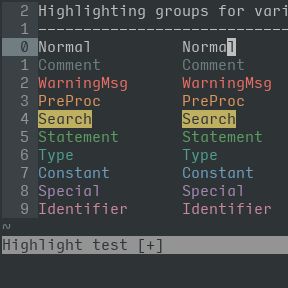
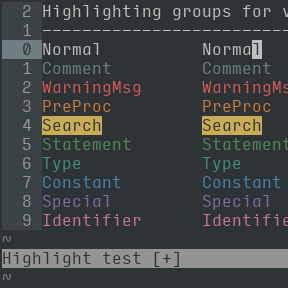
overhaul

Changed region(s): [[0.0, 0.0, 1.0, 0.7812], [0.0, 0.7812, 1.0, 0.9688]]

diff --git a/README.md b/README.md
@@ -76,14 +76,8 @@ let g:vrunchbang_light_LineNr = 'off'
 
 <blockquote>
   <ul>
-    <li>accent colour hues were selected at the scale of 1/12 (30°) colour wheel intervals, followed by 1/6 subinterval adjustments</li>
-    <li>base colour hue was selected from among:
-      <ul>
-        <li>the 24 hues available at the scale of 1/24 (15°) colour wheel intervals</li>
-        <li>the additional fine-tuned accent hues</li>
-      </ul>
-    </li>
-    <li>discrete intervals were also used for tuning colour saturations (1/24) and values (1/12)</li>
+    <li><strong>hues</strong> were selected at the scale of 1/48 (7.5°) colour wheel intervals</li>
+    <li><strong>saturations</strong> and <strong>values</strong> were adjusted at the scale of 1/12 and 1/24, respectively</li>
     <li>the <a href="https://www.w3.org/TR/UNDERSTANDING-WCAG20/visual-audio-contrast-contrast.html#visual-audio-contrast-contrast-73-head">ISO 3:1 contrast standard</a> is met by nearly all text/background combinations, exceptions being made for some transient-highlighted backgrounds (e.g. cursorcolumn, cursorline)</li>
   </ul>
 </blockquote>
@@ -99,67 +93,67 @@ let g:vrunchbang_light_LineNr = 'off'
   <tbody>
     <tr>
       <td style="text-align: right"><img src="http://www.colorhexa.com/2e3436.png" height="24" width="42" /> <code class="highlighter-rouge">2e3436</code> </td>
-      <td style="text-align: center"><img src="http://www.colorhexa.com/eb493a.png" height="24" width="42" /> <code class="highlighter-rouge">eb493a</code> </td>
-      <td style="text-align: left"><img src="http://www.colorhexa.com/eb6e63.png" height="24" width="42" /> <code class="highlighter-rouge">eb6e63</code></td>
+      <td style="text-align: center"><img src="http://www.colorhexa.com/e04a4a.png" height="24" width="42" /> <code class="highlighter-rouge">e04a4a</code> </td>
+      <td style="text-align: left"><img src="http://www.colorhexa.com/bf6060.png" height="24" width="42" /> <code class="highlighter-rouge">bf6060</code></td>
     </tr>
     <tr>
       <td style="text-align: right"><img src="http://www.colorhexa.com/3b4245.png" height="24" width="42" /> <code class="highlighter-rouge">3b4245</code> </td>
-      <td style="text-align: center"><img src="http://www.colorhexa.com/e07426.png" height="24" width="42" /> <code class="highlighter-rouge">e07426</code> </td>
-      <td style="text-align: left"><img src="http://www.colorhexa.com/e0945e.png" height="24" width="42" /> <code class="highlighter-rouge">e0945e</code></td>
+      <td style="text-align: center"><img src="http://www.colorhexa.com/e07538.png" height="24" width="42" /> <code class="highlighter-rouge">e07538</code> </td>
+      <td style="text-align: left"><img src="http://www.colorhexa.com/b5734c.png" height="24" width="42" /> <code class="highlighter-rouge">b5734c</code></td>
     </tr>
     <tr>
       <td style="text-align: right"><img src="http://www.colorhexa.com/485154.png" height="24" width="42" /> <code class="highlighter-rouge">485154</code> </td>
-      <td style="text-align: center"><img src="http://www.colorhexa.com/d4b935.png" height="24" width="42" /> <code class="highlighter-rouge">d4b935</code> </td>
-      <td style="text-align: left"><img src="http://www.colorhexa.com/bfaf60.png" height="24" width="42" /> <code class="highlighter-rouge">bfaf60</code></td>
+      <td style="text-align: center"><img src="http://www.colorhexa.com/d4ac35.png" height="24" width="42" /> <code class="highlighter-rouge">d4ac35</code> </td>
+      <td style="text-align: left"><img src="http://www.colorhexa.com/ab9248.png" height="24" width="42" /> <code class="highlighter-rouge">ab9248</code></td>
     </tr>
     <tr>
       <td style="text-align: right"><img src="http://www.colorhexa.com/707e82.png" height="24" width="42" /> <code class="highlighter-rouge">707e82</code> </td>
-      <td style="text-align: center"><img src="http://www.colorhexa.com/349e3d.png" height="24" width="42" /> <code class="highlighter-rouge">349e3d</code> </td>
-      <td style="text-align: left"><img src="http://www.colorhexa.com/5c9e61.png" height="24" width="42" /> <code class="highlighter-rouge">5c9e61</code></td>
+      <td style="text-align: center"><img src="http://www.colorhexa.com/349e42.png" height="24" width="42" /> <code class="highlighter-rouge">349e42</code> </td>
+      <td style="text-align: left"><img src="http://www.colorhexa.com/508a58.png" height="24" width="42" /> <code class="highlighter-rouge">508a58</code></td>
     </tr>
     <tr>
       <td style="text-align: right"><img src="http://www.colorhexa.com/949494.png" height="24" width="42" /> <code class="highlighter-rouge">949494</code> </td>
-      <td style="text-align: center"><img src="http://www.colorhexa.com/289e8b.png" height="24" width="42" /> <code class="highlighter-rouge">289e8b</code> </td>
-      <td style="text-align: left"><img src="http://www.colorhexa.com/4f9e91.png" height="24" width="42" /> <code class="highlighter-rouge">4f9e91</code></td>
+      <td style="text-align: center"><img src="http://www.colorhexa.com/289e8e.png" height="24" width="42" /> <code class="highlighter-rouge">289e8e</code> </td>
+      <td style="text-align: left"><img src="http://www.colorhexa.com/458a81.png" height="24" width="42" /> <code class="highlighter-rouge">458a81</code></td>
     </tr>
     <tr>
       <td style="text-align: right"><img src="http://www.colorhexa.com/bfbfbf.png" height="24" width="42" /> <code class="highlighter-rouge">bfbfbf</code> </td>
-      <td style="text-align: center"><img src="http://www.colorhexa.com/3f8abf.png" height="24" width="42" /> <code class="highlighter-rouge">3f8abf</code> </td>
-      <td style="text-align: left"><img src="http://www.colorhexa.com/6f9ebf.png" height="24" width="42" /> <code class="highlighter-rouge">6f9ebf</code></td>
+      <td style="text-align: center"><img src="http://www.colorhexa.com/3f90bf.png" height="24" width="42" /> <code class="highlighter-rouge">3f90bf</code> </td>
+      <td style="text-align: left"><img src="http://www.colorhexa.com/5c869e.png" height="24" width="42" /> <code class="highlighter-rouge">5c869e</code></td>
     </tr>
     <tr>
       <td style="text-align: right"><img src="http://www.colorhexa.com/e0e0e0.png" height="24" width="42" /> <code class="highlighter-rouge">e0e0e0</code> </td>
-      <td style="text-align: center"><img src="http://www.colorhexa.com/9c69b5.png" height="24" width="42" /> <code class="highlighter-rouge">9c69b5</code> </td>
-      <td style="text-align: left"><img src="http://www.colorhexa.com/a688b5.png" height="24" width="42" /> <code class="highlighter-rouge">a688b5</code></td>
+      <td style="text-align: center"><img src="http://www.colorhexa.com/9969b5.png" height="24" width="42" /> <code class="highlighter-rouge">9969b5</code> </td>
+      <td style="text-align: left"><img src="http://www.colorhexa.com/876f94.png" height="24" width="42" /> <code class="highlighter-rouge">876f94</code></td>
     </tr>
     <tr>
       <td style="text-align: right"><img src="http://www.colorhexa.com/ffffff.png" height="24" width="42" /> <code class="highlighter-rouge">ffffff</code> </td>
-      <td style="text-align: center"><img src="http://www.colorhexa.com/c96587.png" height="24" width="42" /> <code class="highlighter-rouge">c96587</code> </td>
-      <td style="text-align: left"><img src="http://www.colorhexa.com/c9879d.png" height="24" width="42" /> <code class="highlighter-rouge">c9879d</code></td>
+      <td style="text-align: center"><img src="http://www.colorhexa.com/d46a85.png" height="24" width="42" /> <code class="highlighter-rouge">d46a85</code> </td>
+      <td style="text-align: left"><img src="http://www.colorhexa.com/b5697c.png" height="24" width="42" /> <code class="highlighter-rouge">b5697c</code></td>
     </tr>
   </tbody>
 </table>
 
-<p><img src="http://www.colorhexa.com/eb493a.png" height="24" width="42" />
+<p><img src="http://www.colorhexa.com/e04a4a.png" height="24" width="42" />
 <strong>Red</strong>, the colour of alarm, is used for <strong>warning elements</strong>, including error messages, misspellings, and diff deletions.</p>
 
-<p><img src="http://www.colorhexa.com/e07426.png" height="24" width="42" />
+<p><img src="http://www.colorhexa.com/e07538.png" height="24" width="42" />
 <strong>Orange</strong>, the colour of fire, can be associated with the preliminary “warmup” phase of some activity; literally, this could be the heating-up of a hearth for forging, or a stove for cooking. Orange is therefore used for <strong>preliminary elements</strong>, such as preprocessor commands (which prepare data to be handled by another program), incremental searching (that is, a search term in the process of being typed), titles, and miscapitalized words.</p>
 
-<p><img src="http://www.colorhexa.com/d4b935.png" height="24" width="42" />
+<p><img src="http://www.colorhexa.com/d4ac35.png" height="24" width="42" />
 <strong>Yellow</strong>, the classic highlighting colour, is applied to elements that are not warnings, yet should draw attention with high visibility. These <strong>highlighted elements</strong> include search results, task tags (<code class="highlighter-rouge">TODO</code>, <code class="highlighter-rouge">FIXME</code>…), and diff changes.</p>
 
-<p><img src="http://www.colorhexa.com/349e3d.png" height="24" width="42" />
+<p><img src="http://www.colorhexa.com/349e42.png" height="24" width="42" />
 <strong>Green</strong>, the colour that says “go ahead, proceed with the task at hand”, is used for <strong>action elements</strong>, such as statements (if/then, while/do, case…), mode indicators (insert, visual…), vim user prompts, and diff additions.</p>
 
-<p><img src="http://www.colorhexa.com/289e8b.png" height="24" width="42" />
+<p><img src="http://www.colorhexa.com/289e8e.png" height="24" width="42" />
 <strong>Teal</strong> is named after the “common teal”, a kind of duck, thus connecting this colour with the concept of “species”, which is a means of classifying life into very specific types. Teal is therefore used for specifying <strong>object types</strong>, such as data type (boolean, integer, string…) or storage class (static, volatile…), as well as marking mislocalized words (that is, words that are not misspelled but of the wrong type, namely a foreign locale type).</p>
 
-<p><img src="http://www.colorhexa.com/3f8abf.png" height="24" width="42" />
+<p><img src="http://www.colorhexa.com/3f90bf.png" height="24" width="42" />
 <strong>Blue</strong>, a colour of calm stability, is used for <strong>constants</strong>, which come in the form of boolean values, integers, floating-point numbers, characters, and strings.</p>
 
-<p><img src="http://www.colorhexa.com/9c69b5.png" height="24" width="42" />
+<p><img src="http://www.colorhexa.com/9969b5.png" height="24" width="42" />
 <strong>Purple</strong>, often associated with (historically) rare purple dyes produced for special works of art, is used for <strong>special text</strong>, including special characters (standalone or within syntax units), vim tags, and debugging statements. Rarely-used words are also marked, allowing the writer to consider whether such a specially uncommon word is appropriate.</p>
 
-<p><img src="http://www.colorhexa.com/c96587.png" height="24" width="42" />
+<p><img src="http://www.colorhexa.com/d46a85.png" height="24" width="42" />
 <strong>Pink</strong>, the colour of spring blossoms, is used for <strong>object names</strong>, including the names of variables and functions. To code is to bring countless objects blossoming into life as one types their names.</p>
